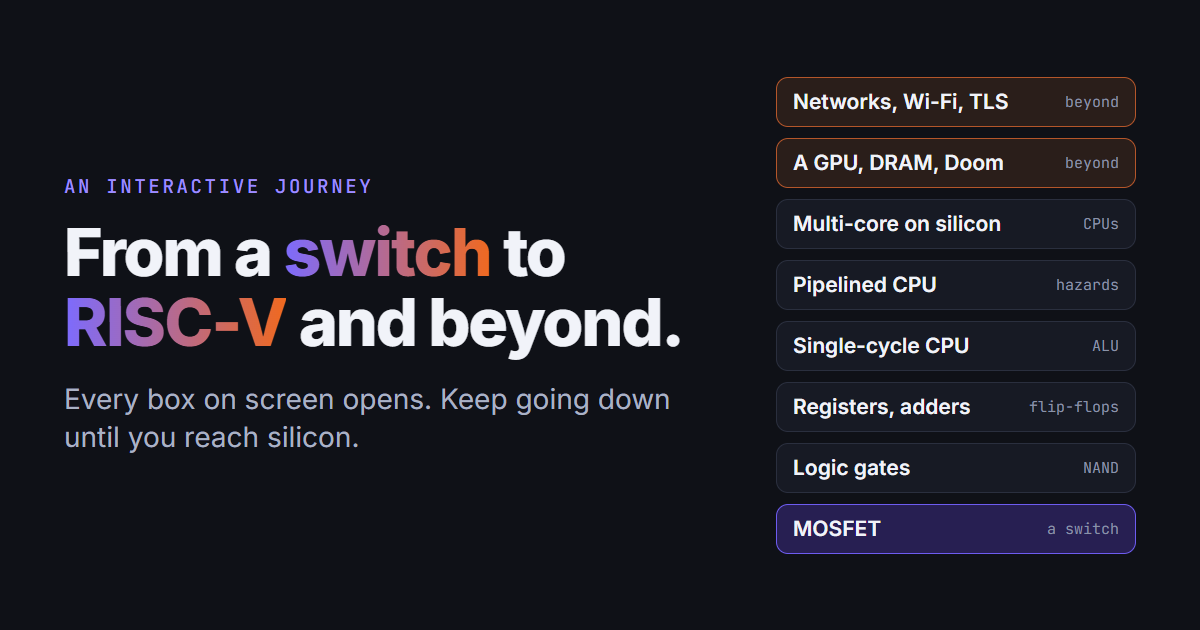
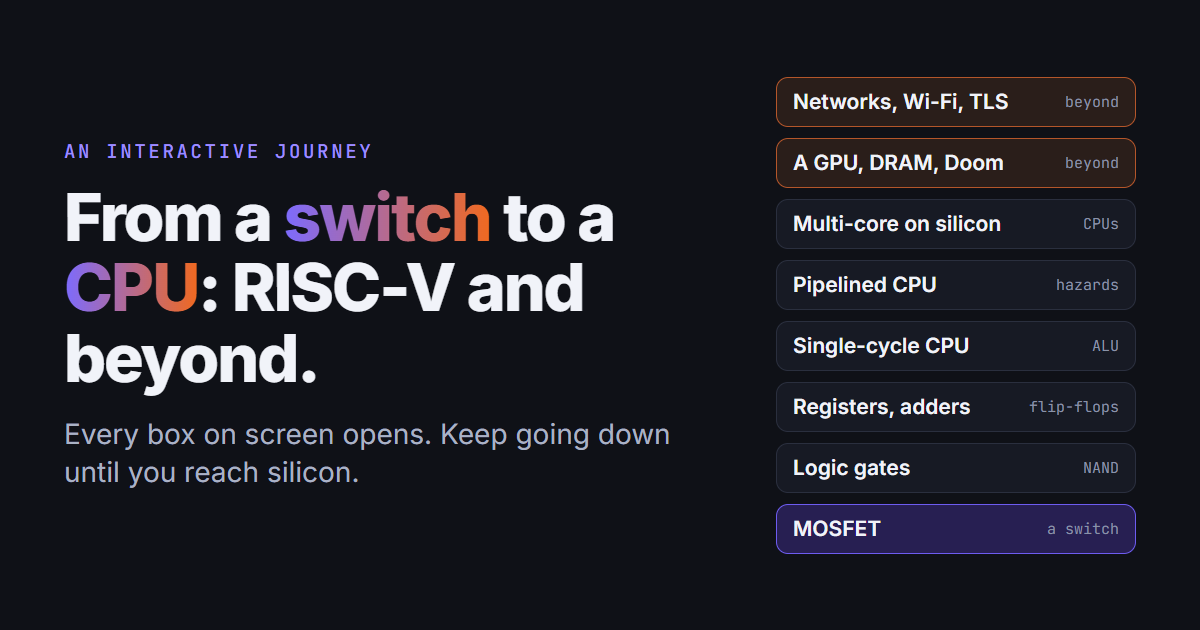
Home heading and link preview: From a switch to a CPU; ignore wallet injections' errors
Brave on iOS injects a wallet script (window.ethereum) into every page; its error reached
our banner as 'Something went wrong'. Errors about wallet globals or from user-script
frames are not the site's.

Changed region(s): [[0.0308, 0.2111, 0.5858, 0.7841]]

diff --git a/src/ui/report.ts b/src/ui/report.ts
@@ -56,7 +56,10 @@ export function oneLine(message: string, n = 200): string {
 }
 
 const EXTENSION = /\b(?:chrome|moz|safari(?:-web)?|ms-browser)-extension:\/\/|webkit-masked-url:\/\//;
-const URL_IN_STACK = /\b[a-z][a-z0-9+.-]*:\/\/[^\s)]+/gi;
+const USER_SCRIPT = /\buser-script:\d/;
+/** Globals the site never touches but wallet injections do: an error about one of them is not ours. */
+const WALLET = /\bwindow\.(?:ethereum|solana|phantom|web3|tronWeb|braveSolana|keplr)\b/;
+const URL_IN_STACK =/\b[a-z][a-z0-9+.-]*:\/\/[^\s)]+/gi;
 
 /**
  * Errors not worth a banner: benign browser warnings, cross-origin "Script error." with nothing to report,
@@ -67,6 +70,9 @@ export function isNoise(e: { message: string; stack?: string; name?: string; fil
   if (/ResizeObserver loop/i.test(m)) return true;
   if (e.name === 'AbortError' || /play\(\) request was interrupted/i.test(m)) return true;
   if (/^Script error\.?$/i.test(m.trim()) && !e.stack) return true;
+  // A browser's own injected scripts (Brave's and others' wallets on iOS run as WebKit user scripts: no file of ours,
+  // `user-script:n` frames) defining window.ethereum and friends on every page.
+  if (WALLET.test(m) || USER_SCRIPT.test(e.stack ?? '') || USER_SCRIPT.test(e.filename ?? '')) return true;
   if (e.filename && (EXTENSION.test(e.filename) || (/^[a-z][a-z0-9+.-]*:\/\//i.test(e.filename) && !e.filename.startsWith(origin)))) return true;
   // Frames with URLs: the top one an extension's (thrown there, even if called from ours), or none of ours.
   const urls = e.stack?.match(URL_IN_STACK) ?? [];

diff --git a/tests/report.test.ts b/tests/report.test.ts
@@ -98,6 +98,9 @@ describe('problem reports', () => {
     expect(isNoise({ message: 'boom', stack: `Error: boom\n    at x (moz-extension://abc/c.js:1:2)\n    at f (${ORIGIN}/a.js:1:2)` }, ORIGIN)).toBe(true);
     expect(isNoise({ message: 'boom', stack: 'Error: boom\n    at x (https://other.example/ad.js:1:2)' }, ORIGIN)).toBe(true);
     expect(isNoise({ message: 'boom', filename: 'chrome-extension://abc/x.js' }, ORIGIN)).toBe(true);
+    // Brave on iOS: its wallet's injected script, reported against the page itself
+    expect(isNoise({ message: "undefined is not an object (evaluating 'window.ethereum.selectedAddress = undefined')", filename: `${ORIGIN}/` }, ORIGIN)).toBe(true);
+    expect(isNoise({ message: 'boom', stack: 'f@user-script:5:12:34\nglobal code@user-script:5:40:3' }, ORIGIN)).toBe(true);
     expect(isNoise({ message: 'boom', stack: ours }, ORIGIN)).toBe(false);
     expect(isNoise({ message: 'boom', stack: ours, filename: `${ORIGIN}/MOSFETtoRISCV/assets/index.js` }, ORIGIN)).toBe(false);
     expect(isNoise({ message: 'boom' }, ORIGIN)).toBe(false);

diff --git a/src/ui/pages/home.ts b/src/ui/pages/home.ts
@@ -70,7 +70,7 @@ export function homePage(): Page {
     h('section', { class: 'hero' },
       h('div', null,
         h('div', { class: 'eyebrow' }, 'An interactive journey'),
-        h('h1', null, 'From a ', h('span', { class: 'grad' }, 'switch'), ' to ', h('span', { class: 'grad' }, 'RISC-V'), ' and beyond.'),
+        h('h1', null, 'From a ', h('span', { class: 'grad' }, 'switch'), ' to a ', h('span', { class: 'grad' }, 'CPU'), ': RISC-V and beyond.'),
         h('p', { class: 'lead' }, 'Build a computer one level at a time. Start with a MOSFET, make a gate, then adders, memory and a processor, and go on to GPUs, memory systems and networks. Every box on screen is transparent: open it and keep going down until you reach silicon.'),
         // One way forward, then the rest as quiet links: five equal buttons wrapped unevenly and moved when the campaign link grew.
         h('div', { class: 'cta' },

diff --git a/scripts/og.html b/scripts/og.html
@@ -19,7 +19,7 @@
 </style></head><body>
   <div>
     <div class="eyebrow">An interactive journey</div>
-    <h1>From a <span class="g">switch</span> to <span class="g">RISC-V</span> and beyond.</h1>
+    <h1>From a <span class="g">switch</span> to a <span class="g">CPU</span>: RISC-V and beyond.</h1>
     <p>Every box on screen opens. Keep going down until you reach silicon.</p>
   </div>
   <div class="ladder">
